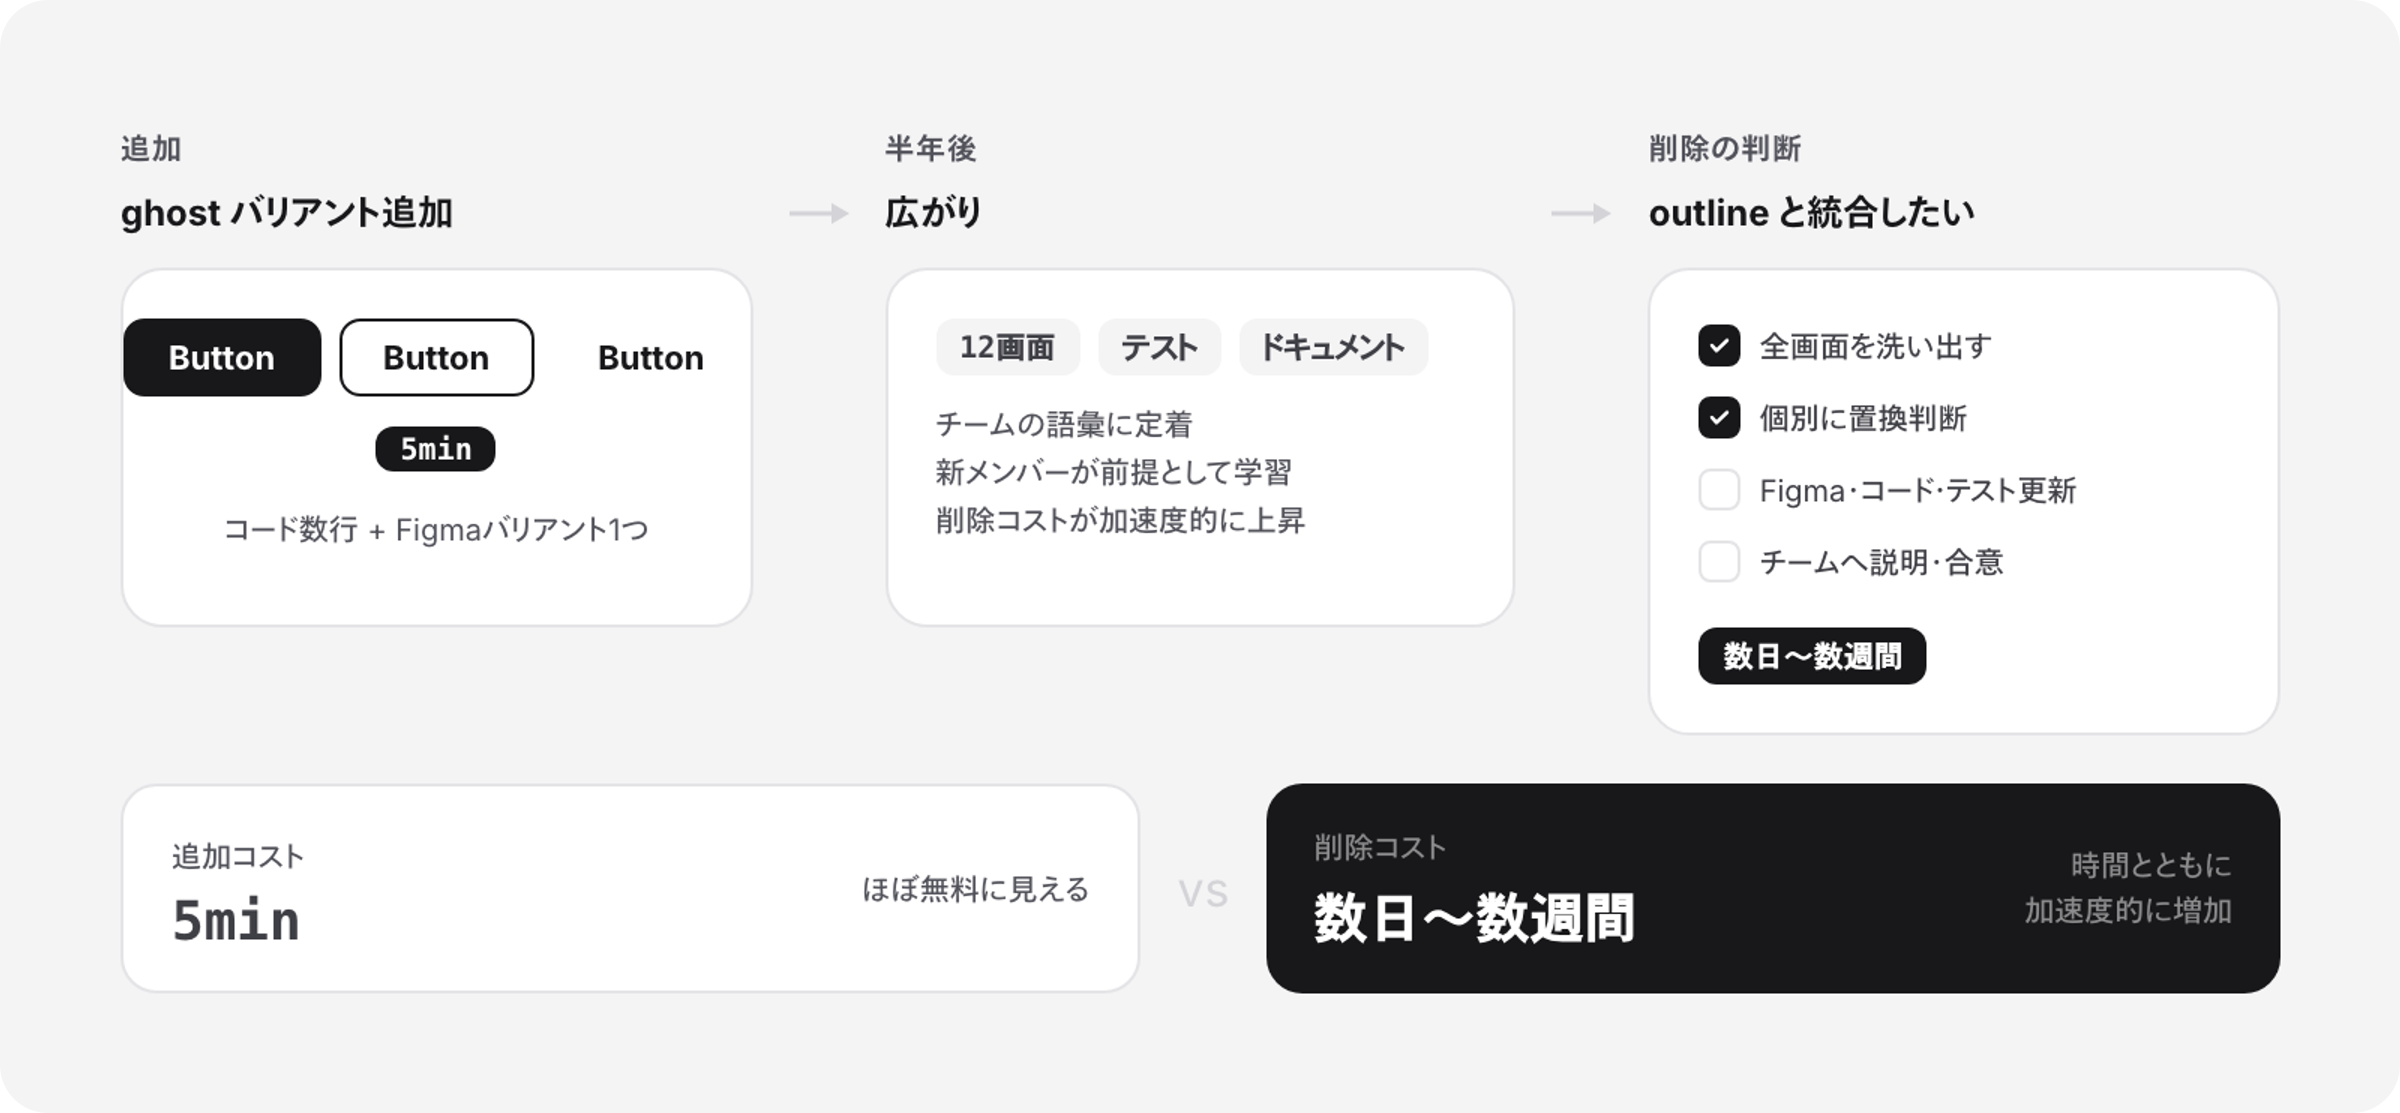
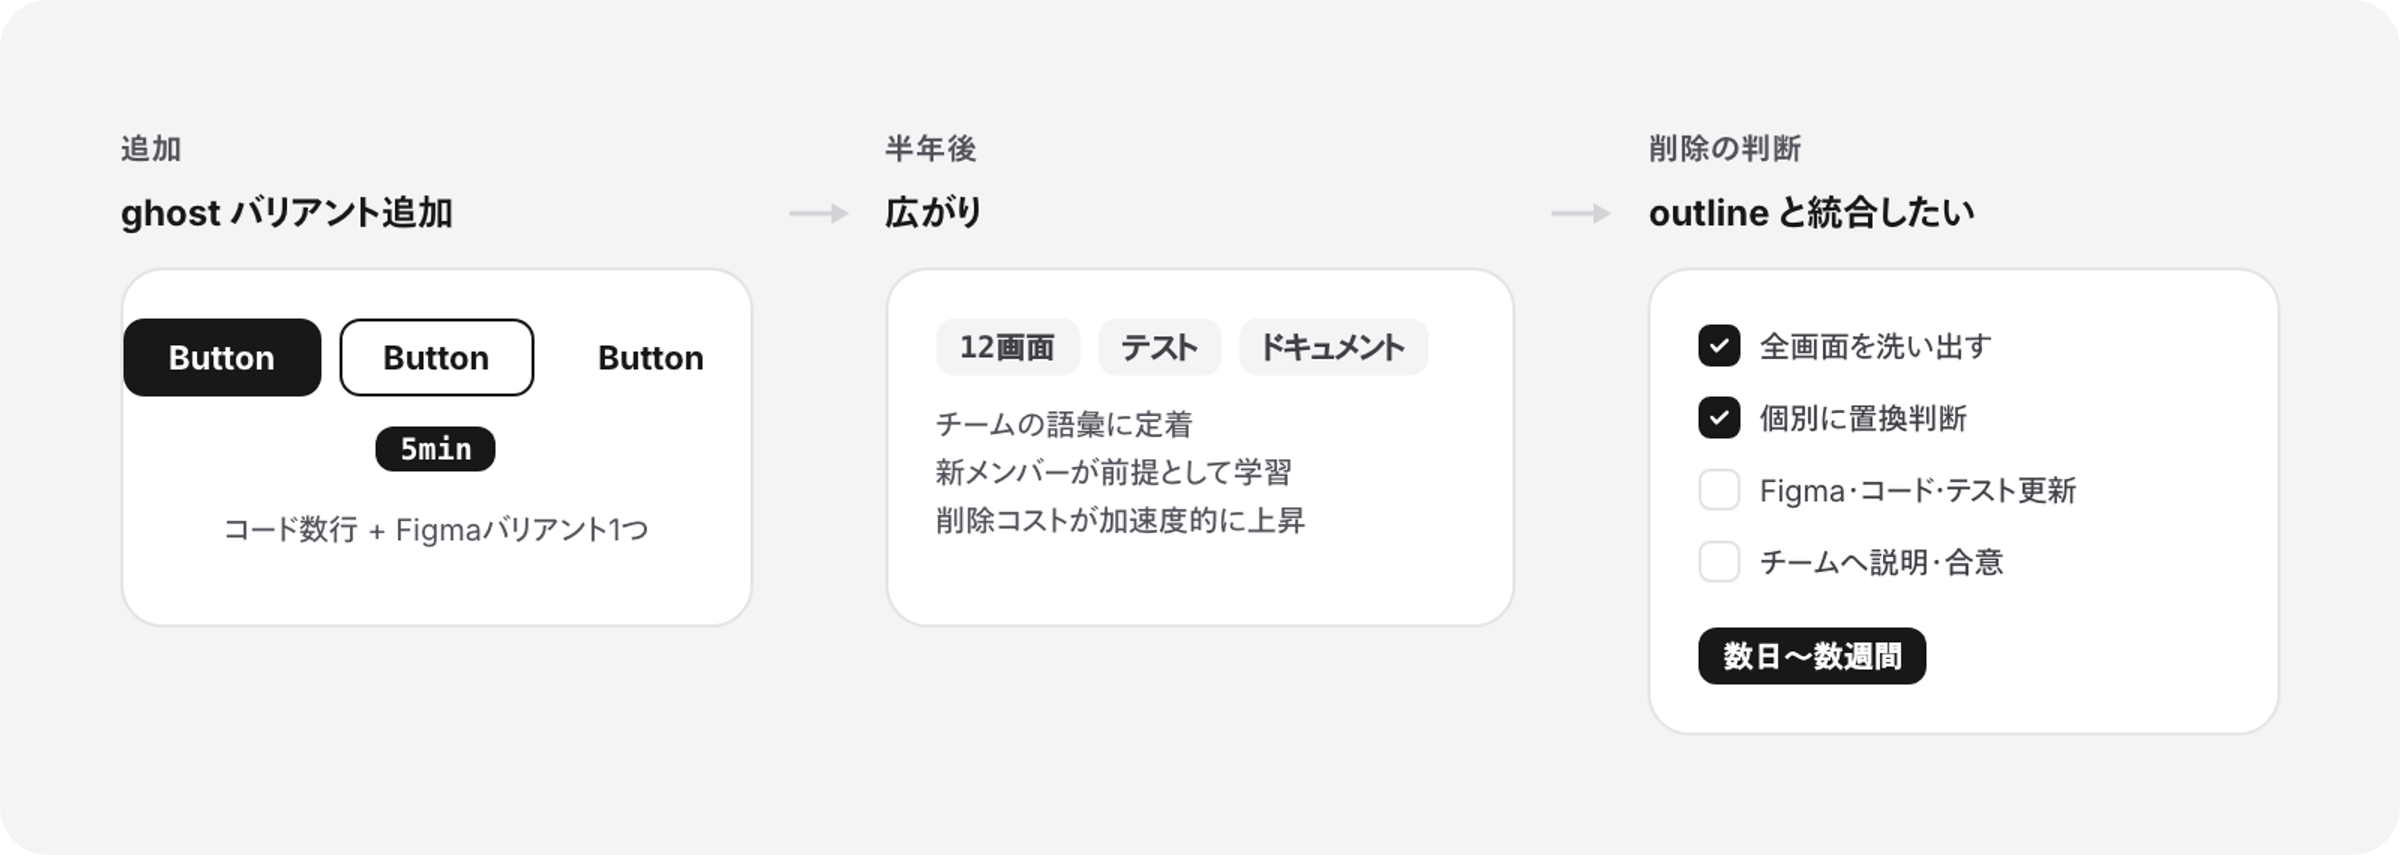
経路依存性の例を手癖による設計方法に変更し、fig-81から追加コスト比較バーを削除
- TODO 1: 「コンポーネント化したか否か」の例を「トークン未登録で直接色指定する手癖」に変更
- TODO 2: fig-81の下部にあった追加コスト vs 削除コストの比較バーを削除し、
  3フェーズの図だけに簡素化

diff --git a/illustrations/src/figures/fig-81-addition-removal-asymmetry.tsx b/illustrations/src/figures/fig-81-addition-removal-asymmetry.tsx
@@ -185,62 +185,6 @@ export default function Fig81() {
           </PhaseCard>
         </div>
 
-        {/* Cost comparison bar */}
-        <div
-          style={{
-            marginTop: 16,
-            display: "flex",
-            gap: 12,
-            alignItems: "stretch",
-          }}
-        >
-          <div
-            style={{
-              flex: 1,
-              background: "#fff",
-              borderRadius: 12,
-              padding: "12px 16px",
-              border: `1px solid ${border}`,
-              display: "flex",
-              justifyContent: "space-between",
-              alignItems: "center",
-            }}
-          >
-            <div>
-              <div style={{ fontSize: 10, color: tertiary, marginBottom: 2 }}>追加コスト</div>
-              <div style={{ fontFamily: mono, fontSize: 18, fontWeight: 700, color: secondary }}>
-                5min
-              </div>
-            </div>
-            <div style={{ fontSize: 10, color: tertiary }}>ほぼ無料に見える</div>
-          </div>
-          <div style={{ display: "flex", alignItems: "center", fontSize: 16, color: "#d4d4d8" }}>
-            vs
-          </div>
-          <div
-            style={{
-              flex: 1,
-              background: text,
-              borderRadius: 12,
-              padding: "12px 16px",
-              display: "flex",
-              justifyContent: "space-between",
-              alignItems: "center",
-            }}
-          >
-            <div>
-              <div style={{ fontSize: 10, color: "rgba(255,255,255,0.5)", marginBottom: 2 }}>
-                削除コスト
-              </div>
-              <div style={{ fontFamily: mono, fontSize: 18, fontWeight: 700, color: "#fff" }}>
-                数日〜数週間
-              </div>
-            </div>
-            <div style={{ fontSize: 10, color: "rgba(255,255,255,0.5)", textAlign: "right", lineHeight: 1.5 }}>
-              時間とともに<br />加速度的に増加
-            </div>
-          </div>
-        </div>
       </div>
     </IllustrationFrame>
   );

diff --git a/books/b62994c6b0b1e9/principles-practice.md b/books/b62994c6b0b1e9/principles-practice.md
@@ -23,11 +23,11 @@ title: "原則の実践: 経路依存性・一貫性・妥協"
 
 その過程では1932年にAugust Dvorakがより効率的とされる[Dvorak配列](https://ja.wikipedia.org/wiki/Dvorak%E9%85%8D%E5%88%97)を提案しましたが、普及には至りませんでした。
 
-この性質を説明するのが経路依存性です。タイピング教育のカリキュラム、OSのデフォルト設定、キーボード製造の金型、オフィスの研修マニュアル——電子キーボードが生まれた時にはすべてがQWERTYを前提に構築されていました。ひとつの要素だけを変えても周辺が追いつかず、全部を同時に変えるのはコストが膨大すぎる。初期の技術的制約で決まった選択が、制約が消えた後も社会全体を縛り続けている典型例です。
+この性質を説明するのが経路依存性です。タイピング教育のカリキュラム、OSのデフォルト設定、キーボード製造の金型、オフィスの研修マニュアル——電子キーボードが生まれた時にはすべてがQWERTYを前提に構築されていました。ひとつの要素だけを変えても周辺が追いつかず、全部を同時に変えるのはコストが膨大すぎる。初期の技術的制約で決まった選択が、制約が消えた後も社会全体のデファクトスタンダードであり続け、加速度的な定着を繰り返します。
 
 デザインシステムでもまったく同じことが起こります。
 
-たとえば、Figmaでコンポーネント化せずに画面を作り始めたとします。10画面のうちは問題ない。しかし50画面に増えた時点で「やはりコンポーネント化しよう」と思い立っても、50画面分のバラバラなボタンやカードを一つずつマスターコンポーネントに紐づけ直す作業が待っています。作業コストに圧倒され、結局51画面目もコピー&ペーストで作ってしまう。初期の何気ない判断が、仕切り直しの機会すら奪ってしまいます。
+たとえば、色やスペーシングをトークンに登録せず、毎回カラーピッカーで直接指定する作り方をしていたとします。10画面のうちは問題ない。しかし50画面に増えた時点で「やはりトークンに統一しよう」と思い立っても、50画面分の個別指定をひとつずつスタイルに紐づけ直す作業が待っています。作業コストに圧倒され、結局51画面目も同じやり方で作ってしまう。初期の何気ない設計方法が、仕切り直しの機会すら奪ってしまいます。
 
 この現象はライブラリの選択、命名、ディレクトリ構造など、デザインシステムのあらゆる要素に関連します。いくつか例を見てみましょう。
 
@@ -96,7 +96,7 @@ title: "原則の実践: 経路依存性・一貫性・妥協"
 
 そして、見落とされがちですが本質的な価値がもうひとつあります。
 
-**効果的な差異です。一貫しているからこそ、逸脱が意味を持つ。**
+効果的な差異です。**一貫しているからこそ、逸脱が意味を持つ。**
 
 すべてのボタンがグレーの画面に1つだけ赤いボタンがある。ユーザーはそこに「注意してください」という強いシグナルを読み取ります。しかし、ボタンの色がページごとにバラバラだったら、赤に込めたはずの警告の意味は埋没してしまいます。
 

diff --git a/books/b62994c6b0b1e9/practical-problems.md b/books/b62994c6b0b1e9/practical-problems.md
@@ -51,7 +51,11 @@ Figmaではプロパティを自由に変更でき、インスタンスは自動
 
 ![追加と削除の非対称性: 似たバリアントは増えやすく、減らしにくい](https://raw.githubusercontent.com/yasuhiro-y/component-design-guide-for-designers/main/illustrations/output/fig-70.png)
 
-増やすのは低リスク、変えるのは高リスク。ソフトウェア設計にはこれに近い考え方として開放閉鎖の原則（OCP: Open-Closed Principle）があります。拡張には開かれているが、修正には閉じられているべき、という設計指針です。Figmaでたとえるなら、マスターコンポーネントに新しいバリアントを追加するのは自由（＝拡張に開かれている）ですが、すでにあるバリアントのプロパティ名を変えれば全インスタンスに影響します（＝修正には閉じられているべき）。まさにこの記事で繰り返してきた「追加は低リスク、変更は高リスク」を一般化した原則です。
+増やすのは低リスク、変えるのは高リスク。
+
+ソフトウェア設計にはこれに近い考え方として開放閉鎖の原則（OCP: Open-Closed Principle）があります。拡張には開かれているが、修正には閉じられているべき、という設計指針です。
+
+Figmaでたとえるなら、マスターコンポーネントに新しいバリアントを追加するのは自由（＝拡張に開かれている）ですが、すでにあるバリアントのプロパティ名を変えれば全インスタンスに影響します（＝修正には閉じられているべき）。まさにこの記事で繰り返してきた「追加は低リスク、変更は高リスク」を一般化した原則です。
 
 この考え方は、変数(1)で扱ったBoolean→Enum移行の設計判断にも当てはまります。
 

diff --git a/books/b62994c6b0b1e9/naming.md b/books/b62994c6b0b1e9/naming.md
@@ -4,7 +4,7 @@ title: "命名: コンポーネントに名前をつける"
 
 デザインデータ上では命名をあまり意識しないかもしれません。しかし実装においては、名前の持つ重みは想像以上に大きいです。
 
-フロントエンドやモバイルの実装では、コンポーネント名でコンポーネントを呼び出します。最初につけた名前がそのままコードに入り、ドキュメントに引用され、チームの会話に定着します。名前を変更するということは、すべての呼び出し箇所を修正するということです。後から変えるコストは思った以上に高いので、一度決めたらなるべく変えないぐらいの気持ちで設計します。
+フロントエンドやモバイルの実装では、コンポーネント名でコンポーネントを呼び出します。最初につけた名前がそのままコードに入り、ドキュメントに引用され、チームの会話に定着します。名前を変更するということは、すべての呼び出し箇所を修正し、動作をテストし、またコードレビューにまわされる作業を発生させます。後から変えるコストは思った以上に高いので、一度決めたらなるべく変えないぐらいの気持ちで設計します。
 
 議論になったことはその場でルール化してドキュメントに残しておかないと、同じ議論が繰り返されます。
 

diff --git a/books/b62994c6b0b1e9/principles.md b/books/b62994c6b0b1e9/principles.md
@@ -21,7 +21,7 @@ Figma（あるいはSketch）のおかげで、デザイナーもコンポーネ
 - **制約**: 色を1680万色から10色に絞る、余白を4の倍数に限定する。選択肢を減らして迷いをなくす考え方
 - **意味の符号化**: 見た目がそっくりなモーダルでも「閉じられるダイアログ」と「確認を強制するダイアログ」は別物。見た目ではなく意味で分ける考え方
 - **合成**: Avatar、Text、Badge、Button。4つの小さな部品を並べ替えるだけでUserCardにもNotificationItemにもなる。小さな部品の組み合わせで多様なUIを作る仕組み
-- **慣習**: `primary` / `secondary` の次に何を足すか。命名規則があれば`destructive`、なければ`red-button`が生まれる。ルールを明文化する仕組み
+- **慣習**: `primary` / `secondary` の次に何を足すか。命名規則があれば`tertiary`、なければ`red-button`が生まれる。ルールを明文化する仕組み
 
 これら6つは独立したチェックリストではなく、互いに補強し合い、ときにトレードオフを生む体系です。正解がないからこそデザインシステムは難しく、そして奥深い。
 

diff --git a/books/b62994c6b0b1e9/assets.md b/books/b62994c6b0b1e9/assets.md
@@ -9,7 +9,7 @@ title: "アセット: ビジュアルをシステムとして管理する"
 - **コード実装か画像埋め込みか** — 再現手段の選択と、その判断が後に縛る影響
 - **アイコン管理** — 既存ライブラリの活用と独自制作のトレードオフ
 - **ベクターアイコンの活用** — SVGとアイコンフォントの使い分け
-- **色の制御** — currentColorを使ってアイコンの色を自動で合わせるしくみ
+- **色の制御** — 使ってアイコンの色を自動で合わせるしくみを取り入れ、個別に画像の用意を不要にする
 
 ## コード実装か画像埋め込みか: 再現手段の選択
 

diff --git a/books/b62994c6b0b1e9/build-strategy.md b/books/b62994c6b0b1e9/build-strategy.md
@@ -2,7 +2,7 @@
 title: "構築戦略: どう作るかを選ぶ"
 ---
 
-コンポーネント設計の具体に入る前に、デザインシステムの構築戦略のパターンをおさえます。以下の戦略を比較します。
+コンポーネント設計の具体に入る前に、デザインシステムの構築戦略のパターンを概観します。以下の戦略を比較します。
 
 - **汎用ライブラリの活用** — MUI・Chakra UIなど既成のコンポーネント群を土台にする
 - **フルスクラッチ** — 自社専用のデザインシステムをゼロから構築する
